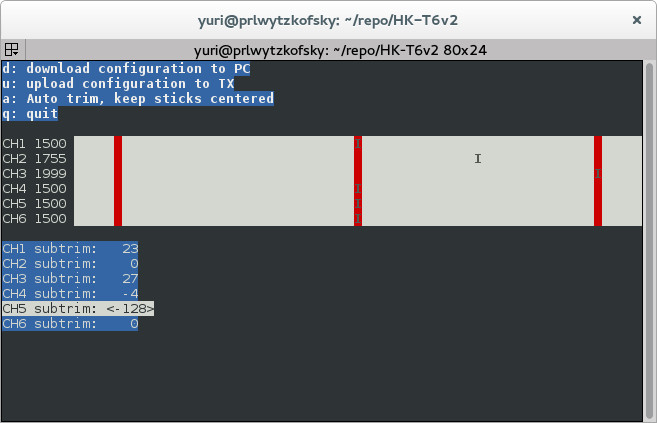
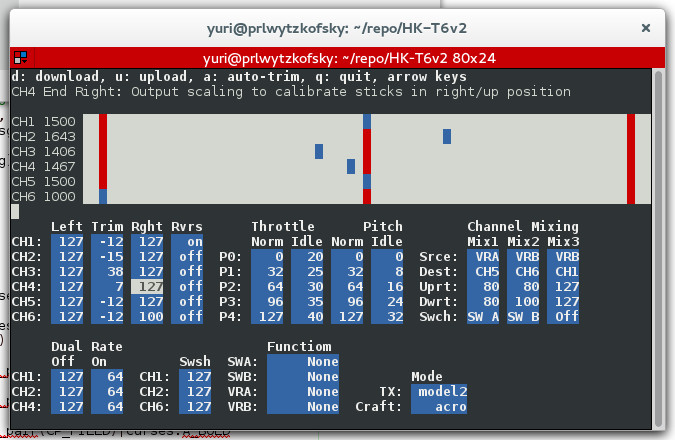
Fix autotrim if channel reverse. Better help. DR was mixed up

diff --git a/message.py b/message.py
@@ -187,12 +187,12 @@ ch4_reverse   = Data(OPC_PARAM_DUMP, BIT4,   2, range(2), ["off", "on"], "CH4 Re
 ch5_reverse   = Data(OPC_PARAM_DUMP, BIT5,   2, range(2), ["off", "on"], "CH5 Reverse", "Reverse channel output")
 ch6_reverse   = Data(OPC_PARAM_DUMP, BIT6,   2, range(2), ["off", "on"], "CH6 Reverse", "Reverse channel output")
 
-ch1_dr_off    = Data(OPC_PARAM_DUMP, UINT8,  3, range(128), None, "CH1 DR Off", "Output scaling when DR switch is off")
-ch2_dr_off    = Data(OPC_PARAM_DUMP, UINT8,  5, range(128), None, "CH2 DR Off", "Output scaling when DR switch is off")
-ch4_dr_off    = Data(OPC_PARAM_DUMP, UINT8,  7, range(128), None, "CH4 DR Off", "Output scaling when DR switch is off")
-ch1_dr_on     = Data(OPC_PARAM_DUMP, UINT8,  4, range(128), None, "CH1 DR On", "Output scaling when DR switch is on")
-ch2_dr_on     = Data(OPC_PARAM_DUMP, UINT8,  6, range(128), None, "CH2 DR On", "Output scaling when DR switch is on")
-ch4_dr_on     = Data(OPC_PARAM_DUMP, UINT8,  8, range(128), None, "CH4 DR On", "Output scaling when DR switch is on")
+ch1_dr_on     = Data(OPC_PARAM_DUMP, UINT8,  3, range(128), None, "CH1 DR On", "Output scaling when DR switch is on")
+ch2_dr_on     = Data(OPC_PARAM_DUMP, UINT8,  5, range(128), None, "CH2 DR On", "Output scaling when DR switch is on")
+ch4_dr_on     = Data(OPC_PARAM_DUMP, UINT8,  7, range(128), None, "CH4 DR On", "Output scaling when DR switch is on")
+ch1_dr_off    = Data(OPC_PARAM_DUMP, UINT8,  4, range(128), None, "CH1 DR Off", "Output scaling when DR switch is off")
+ch2_dr_off    = Data(OPC_PARAM_DUMP, UINT8,  6, range(128), None, "CH2 DR Off", "Output scaling when DR switch is off")
+ch4_dr_off    = Data(OPC_PARAM_DUMP, UINT8,  8, range(128), None, "CH4 DR Off", "Output scaling when DR switch is off")
 
 ch1_swash     = Data(OPC_PARAM_DUMP, SINT8,  9, range(-128, 128), None, "CH1 Swash AFR", "Crazy heli shit, applicable in heli modes")
 ch2_swash     = Data(OPC_PARAM_DUMP, SINT8, 10, range(-128, 128), None, "CH2 Swash AFR", "Crazy heli shit, applicable in heli modes")
@@ -211,27 +211,27 @@ ch4_end_right = Data(OPC_PARAM_DUMP, UINT8, 19, range(128), None, "CH4 End Right
 ch5_end_right = Data(OPC_PARAM_DUMP, UINT8, 21, range(128), None, "CH5 End Right", "Output scaling to calibrate sticks in right/up position")
 ch6_end_right = Data(OPC_PARAM_DUMP, UINT8, 23, range(128), None, "CH6 End Right", "Output scaling to calibrate sticks in right/up position")
 
-thrcrv_norm_0 = Data(OPC_PARAM_DUMP, UINT8, 24, range(128), None, "Throttle Curve Normal P0", "Output characteristics of throttle stick")
-thrcrv_norm_1 = Data(OPC_PARAM_DUMP, UINT8, 26, range(128), None, "Throttle Curve Normal P1", "Output characteristics of throttle stick")
-thrcrv_norm_2 = Data(OPC_PARAM_DUMP, UINT8, 28, range(128), None, "Throttle Curve Normal P2", "Output characteristics of throttle stick")
-thrcrv_norm_3 = Data(OPC_PARAM_DUMP, UINT8, 30, range(128), None, "Throttle Curve Normal P3", "Output characteristics of throttle stick")
-thrcrv_norm_4 = Data(OPC_PARAM_DUMP, UINT8, 32, range(128), None, "Throttle Curve Normal P4", "Output characteristics of throttle stick")
-thrcrv_idle_0 = Data(OPC_PARAM_DUMP, UINT8, 25, range(128), None, "Throttle Curve Idle P0", "Output characteristics of throttle stick when Idle-switch is in on position")
-thrcrv_idle_1 = Data(OPC_PARAM_DUMP, UINT8, 27, range(128), None, "Throttle Curve Idle P1", "Output characteristics of throttle stick when Idle-switch is in on position")
-thrcrv_idle_2 = Data(OPC_PARAM_DUMP, UINT8, 29, range(128), None, "Throttle Curve Idle P2", "Output characteristics of throttle stick when Idle-switch is in on position")
-thrcrv_idle_3 = Data(OPC_PARAM_DUMP, UINT8, 31, range(128), None, "Throttle Curve Idle P3", "Output characteristics of throttle stick when Idle-switch is in on position")
-thrcrv_idle_4 = Data(OPC_PARAM_DUMP, UINT8, 33, range(128), None, "Throttle Curve Idle P4", "Output characteristics of throttle stick when Idle-switch is in on position")
+thrcrv_norm_0 = Data(OPC_PARAM_DUMP, UINT8, 24, range(128), None, "Throttle Curve Normal P0", "Output characteristics of throttle stick, only in Heli modes")
+thrcrv_norm_1 = Data(OPC_PARAM_DUMP, UINT8, 26, range(128), None, "Throttle Curve Normal P1", "Output characteristics of throttle stick, only in Heli modes")
+thrcrv_norm_2 = Data(OPC_PARAM_DUMP, UINT8, 28, range(128), None, "Throttle Curve Normal P2", "Output characteristics of throttle stick, only in Heli modes")
+thrcrv_norm_3 = Data(OPC_PARAM_DUMP, UINT8, 30, range(128), None, "Throttle Curve Normal P3", "Output characteristics of throttle stick, only in Heli modes")
+thrcrv_norm_4 = Data(OPC_PARAM_DUMP, UINT8, 32, range(128), None, "Throttle Curve Normal P4", "Output characteristics of throttle stick, only in Heli modes")
+thrcrv_idle_0 = Data(OPC_PARAM_DUMP, UINT8, 25, range(128), None, "Throttle Curve Idle P0", "Output characteristics of throttle stick, only in Heli modes")
+thrcrv_idle_1 = Data(OPC_PARAM_DUMP, UINT8, 27, range(128), None, "Throttle Curve Idle P1", "Output characteristics of throttle stick, only in Heli modes")
+thrcrv_idle_2 = Data(OPC_PARAM_DUMP, UINT8, 29, range(128), None, "Throttle Curve Idle P2", "Output characteristics of throttle stick, only in Heli modes")
+thrcrv_idle_3 = Data(OPC_PARAM_DUMP, UINT8, 31, range(128), None, "Throttle Curve Idle P3", "Output characteristics of throttle stick, only in Heli modes")
+thrcrv_idle_4 = Data(OPC_PARAM_DUMP, UINT8, 33, range(128), None, "Throttle Curve Idle P4", "Output characteristics of throttle stick, only in Heli modes")
 
-ptchcrv_norm_0 = Data(OPC_PARAM_DUMP, UINT8, 34, range(128), None, "Pitch Curve Normal P0", "Output characteristics of pitch stick")
-ptchcrv_norm_1 = Data(OPC_PARAM_DUMP, UINT8, 36, range(128), None, "Pitch Curve Normal P1", "Output characteristics of pitch stick")
-ptchcrv_norm_2 = Data(OPC_PARAM_DUMP, UINT8, 38, range(128), None, "Pitch Curve Normal P2", "Output characteristics of pitch stick")
-ptchcrv_norm_3 = Data(OPC_PARAM_DUMP, UINT8, 40, range(128), None, "Pitch Curve Normal P3", "Output characteristics of pitch stick")
-ptchcrv_norm_4 = Data(OPC_PARAM_DUMP, UINT8, 42, range(128), None, "Pitch Curve Normal P4", "Output characteristics of pitch stick")
-ptchcrv_idle_0 = Data(OPC_PARAM_DUMP, UINT8, 35, range(128), None, "Pitch Curve Idle P0", "Output characteristics of pitch stick when Idle-switch is in on position")
-ptchcrv_idle_1 = Data(OPC_PARAM_DUMP, UINT8, 37, range(128), None, "Pitch Curve Idle P1", "Output characteristics of pitch stick when Idle-switch is in on position")
-ptchcrv_idle_2 = Data(OPC_PARAM_DUMP, UINT8, 39, range(128), None, "Pitch Curve Idle P2", "Output characteristics of pitch stick when Idle-switch is in on position")
-ptchcrv_idle_3 = Data(OPC_PARAM_DUMP, UINT8, 41, range(128), None, "Pitch Curve Idle P3", "Output characteristics of pitch stick when Idle-switch is in on position")
-ptchcrv_idle_4 = Data(OPC_PARAM_DUMP, UINT8, 43, range(128), None, "Pitch Curve Idle P4", "Output characteristics of pitch stick when Idle-switch is in on position")
+ptchcrv_norm_0 = Data(OPC_PARAM_DUMP, UINT8, 34, range(128), None, "Pitch Curve Normal P0", "Output characteristics of pitch stick, only in Heli modes")
+ptchcrv_norm_1 = Data(OPC_PARAM_DUMP, UINT8, 36, range(128), None, "Pitch Curve Normal P1", "Output characteristics of pitch stick, only in Heli modes")
+ptchcrv_norm_2 = Data(OPC_PARAM_DUMP, UINT8, 38, range(128), None, "Pitch Curve Normal P2", "Output characteristics of pitch stick, only in Heli modes")
+ptchcrv_norm_3 = Data(OPC_PARAM_DUMP, UINT8, 40, range(128), None, "Pitch Curve Normal P3", "Output characteristics of pitch stick, only in Heli modes")
+ptchcrv_norm_4 = Data(OPC_PARAM_DUMP, UINT8, 42, range(128), None, "Pitch Curve Normal P4", "Output characteristics of pitch stick, only in Heli modes")
+ptchcrv_idle_0 = Data(OPC_PARAM_DUMP, UINT8, 35, range(128), None, "Pitch Curve Idle P0", "Output characteristics of pitch stick, only in Heli modes")
+ptchcrv_idle_1 = Data(OPC_PARAM_DUMP, UINT8, 37, range(128), None, "Pitch Curve Idle P1", "Output characteristics of pitch stick, only in Heli modes")
+ptchcrv_idle_2 = Data(OPC_PARAM_DUMP, UINT8, 39, range(128), None, "Pitch Curve Idle P2", "Output characteristics of pitch stick, only in Heli modes")
+ptchcrv_idle_3 = Data(OPC_PARAM_DUMP, UINT8, 41, range(128), None, "Pitch Curve Idle P3", "Output characteristics of pitch stick, only in Heli modes")
+ptchcrv_idle_4 = Data(OPC_PARAM_DUMP, UINT8, 43, range(128), None, "Pitch Curve Idle P4", "Output characteristics of pitch stick, only in Heli modes")
 
 ch1_subtrim    = Data(OPC_PARAM_DUMP, SINT8, 44, range(-128, 128), None, "CH1 subtrim", "Adjust center position")
 ch2_subtrim    = Data(OPC_PARAM_DUMP, SINT8, 45, range(-128, 128), None, "CH2 subtrim", "Adjust center position")

diff --git a/gui.py b/gui.py
@@ -37,15 +37,19 @@ def draw_pot(win, offy, offx, msg, channels):
 					style = CP_SELECT
 				win.addstr(offy+i, x, c, curses.color_pair(style))
 
-def autotrim(param_msg, pot_msg, trims, channels):
+def autotrim(param_msg, pot_msg, trims, channels, reverse):
 	"""Trims and channels need to be sorted the same"""
-	for tr, ch in zip(trims, channels):
+	for tr, ch, rev in zip(trims, channels, reverse)[:4]:
 		d = 1500 - ch.read(pot_msg)
 		t = tr.read(param_msg)
-		v = t + d
+		if not rev.read(param_msg):
+			v = t + d
+		else:
+			v = t - d
 		if v < -128: v = -128
 		if v > 127: v = 127
 		tr.write(param_msg, v)
+		tr.changed = True
 
 def draw_column(win, y, x, msg, selected, title, fields, form):
 	
@@ -112,7 +116,7 @@ def draw_param(win, offy, offx, msg, selected, datas):
 	draw_column(win, offy+10, offx+50, msg, selected, "Mode", [tx_mode, craft_type], "%7s")
 
 def draw_legenda(win, offy, offx):
-	win.addstr(offy+0, offx, "d: download, u: upload, a: auto-trim, q: quit",
+	win.addstr(offy+0, offx, "d: download, u: upload, a: auto-trim, q: quit, arrow keys",
 		curses.color_pair(0)|curses.A_BOLD)
 
 def draw_help(win, offy, offx, index, datas):
@@ -154,7 +158,7 @@ def gui(stdscr, inqueue, outqueue):
 			elif c == ord('u') and last_param_msg:
 				outqueue.put(load_param_msg(last_param_msg[1:-2]))
 			elif c == ord('a') and last_param_msg:
-				autotrim(last_param_msg, last_pot_msg, trims, channels)
+				autotrim(last_param_msg, last_pot_msg, trims, channels, reverse)
 			elif c == curses.KEY_DOWN:
 				index = (index+1)%len(datas)
 			elif c == curses.KEY_UP:
